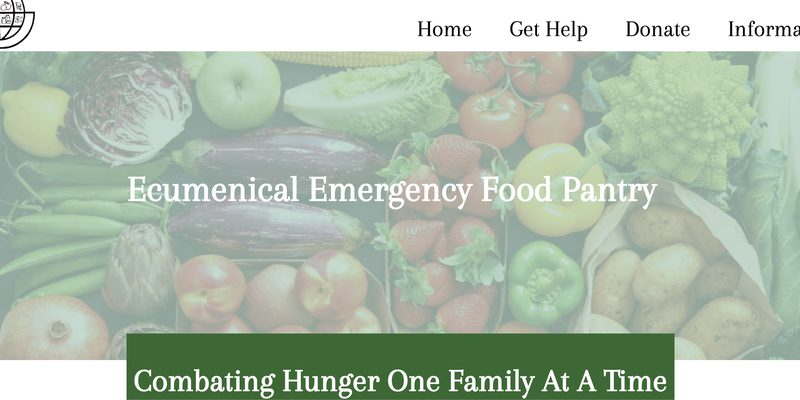
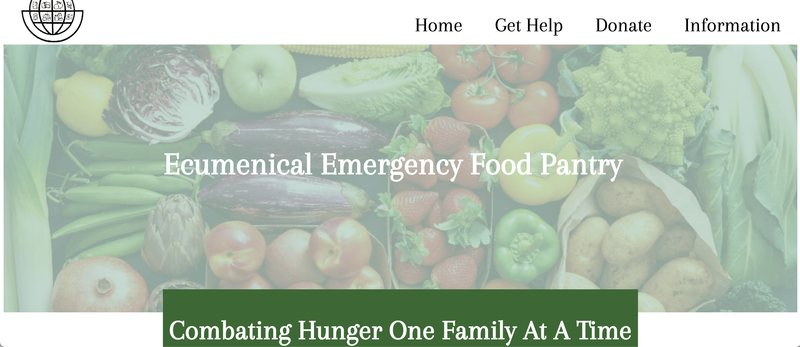
don't stretch images

diff --git a/css/styles.css b/css/styles.css
@@ -389,10 +389,12 @@ h1, h2, h3 {
   max-width: none;  /* overrides the global img { max-width: 100% } */
   height: auto;     /* overrides the width/height HTML attributes */
   margin: calc(var(--card-pad-y) * -1) calc(var(--card-pad-x) * -1) 22px;
-  aspect-ratio: 2 / 1;
-  object-fit: cover;
-  object-position: top center;
-  background: var(--tint);
+  /* Matches the screenshots' native landscape ratio. `contain` guarantees the
+     whole frame is shown — never cropped, never stretched — while the fixed
+     ratio keeps every card's banner exactly the same height. */
+  aspect-ratio: 2.31 / 1;
+  object-fit: contain;
+  background: var(--white);
   border-bottom: 1px solid var(--line);
 }
 
@@ -403,7 +405,7 @@ h1, h2, h3 {
   background: linear-gradient(135deg, var(--tint) 0%, var(--tint-warm) 100%);
   color: var(--purple);
 }
-.card__media--placeholder svg { width: 44px; height: 44px; }
+.card__media--placeholder svg { width: 40px; height: 40px; }
 
 .card__title {
   font-size: 1.32rem;
